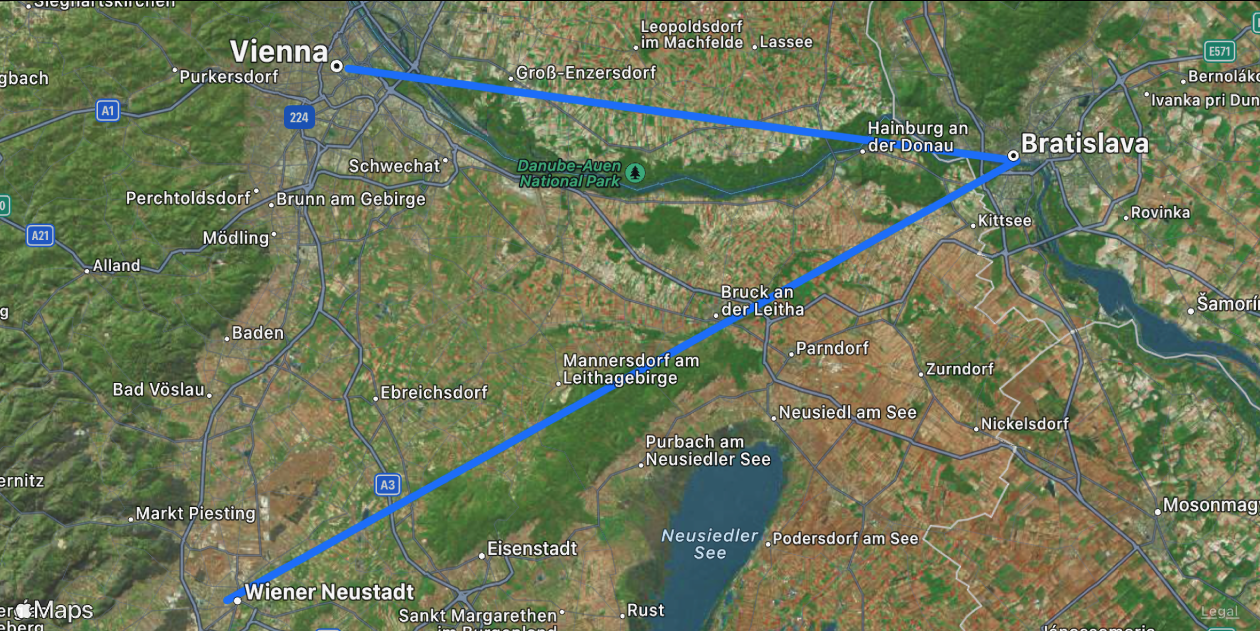
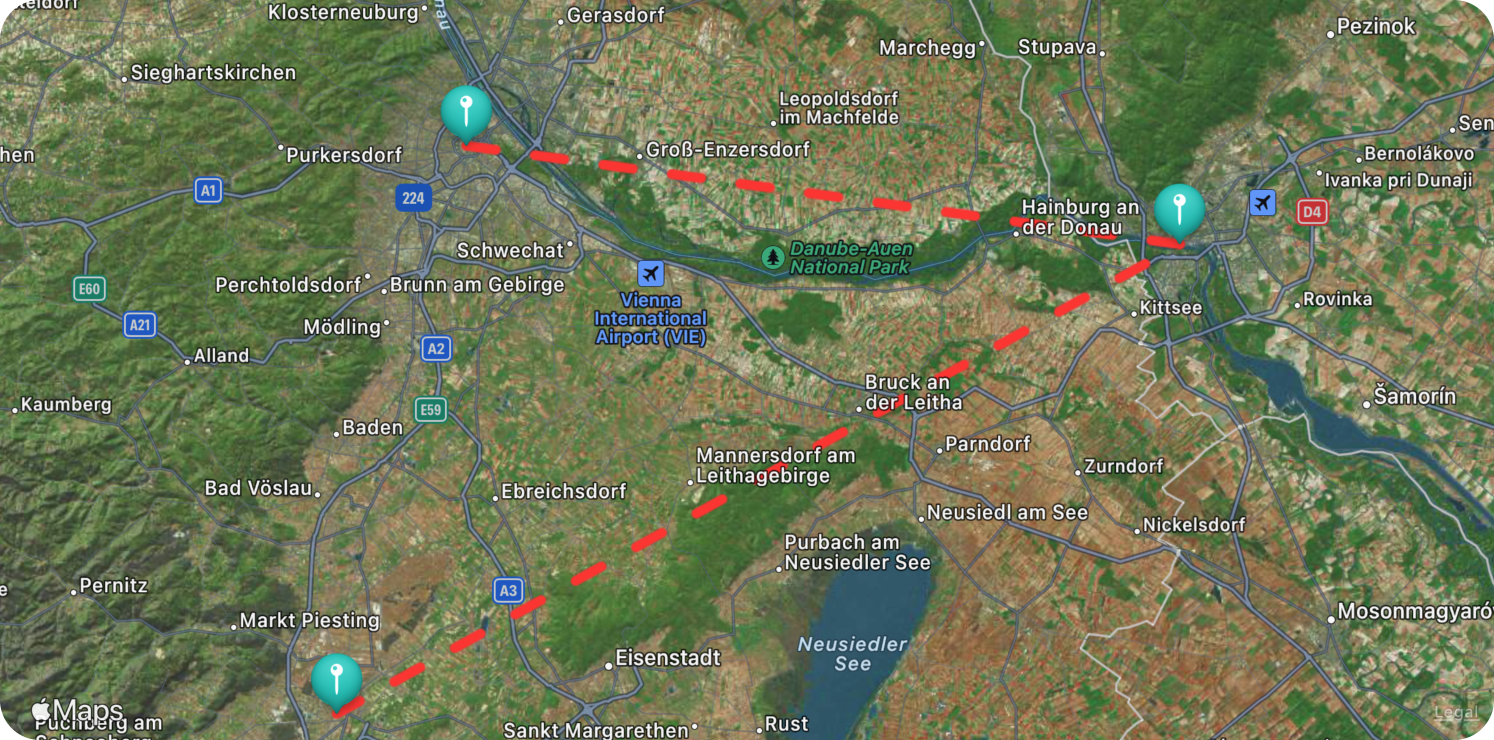
update docs

diff --git a/Sources/LPMapView/Documentation.docc/MapView.md b/Sources/LPMapView/Documentation.docc/MapView.md
@@ -19,7 +19,8 @@ MapView(
   annotations: items
 )
 .mapDisplayRoute() // connect annotations with lines
-.mapAnnotations(.hidden) // hide annotation markers
+.mapRouteStyle(.dashed(2.5, tint: .systemRed) // Use a dashed line
+.mapAnnotations(.visible, tint: .mint) // show annotations with custom tint
 .mapConfiguration(.hybrid) // use the hybrid map style
 ```
 
